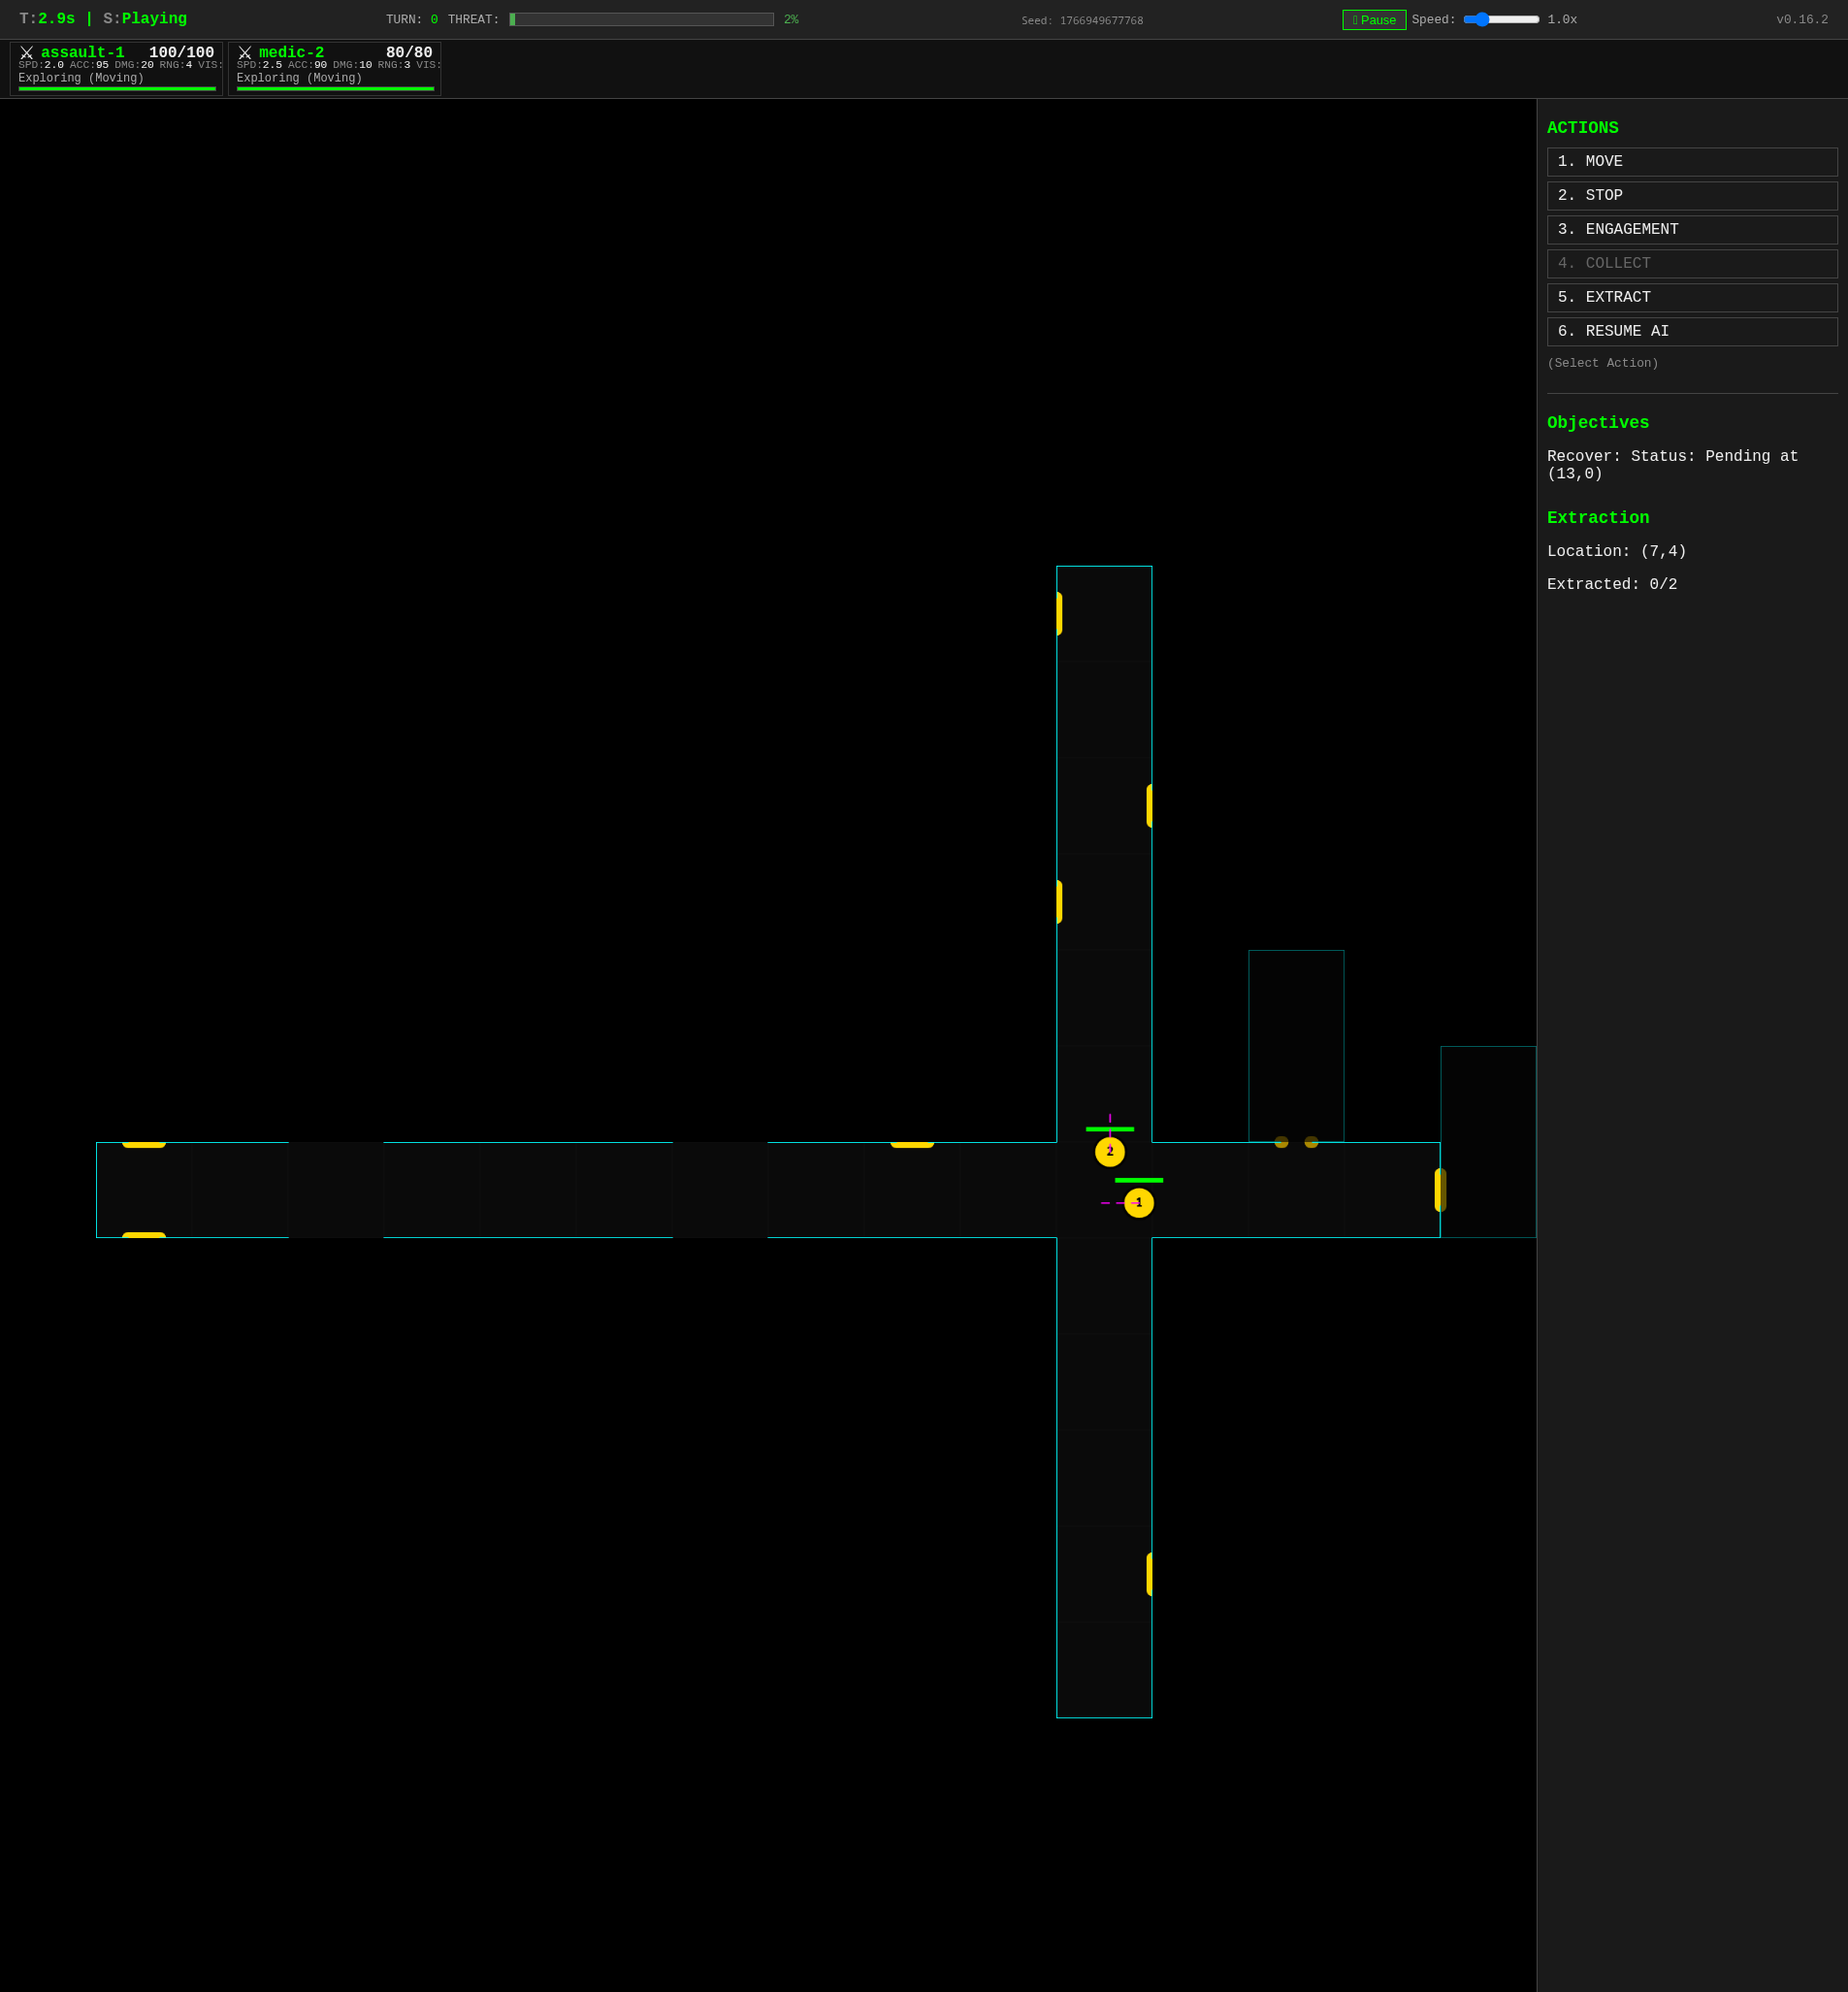
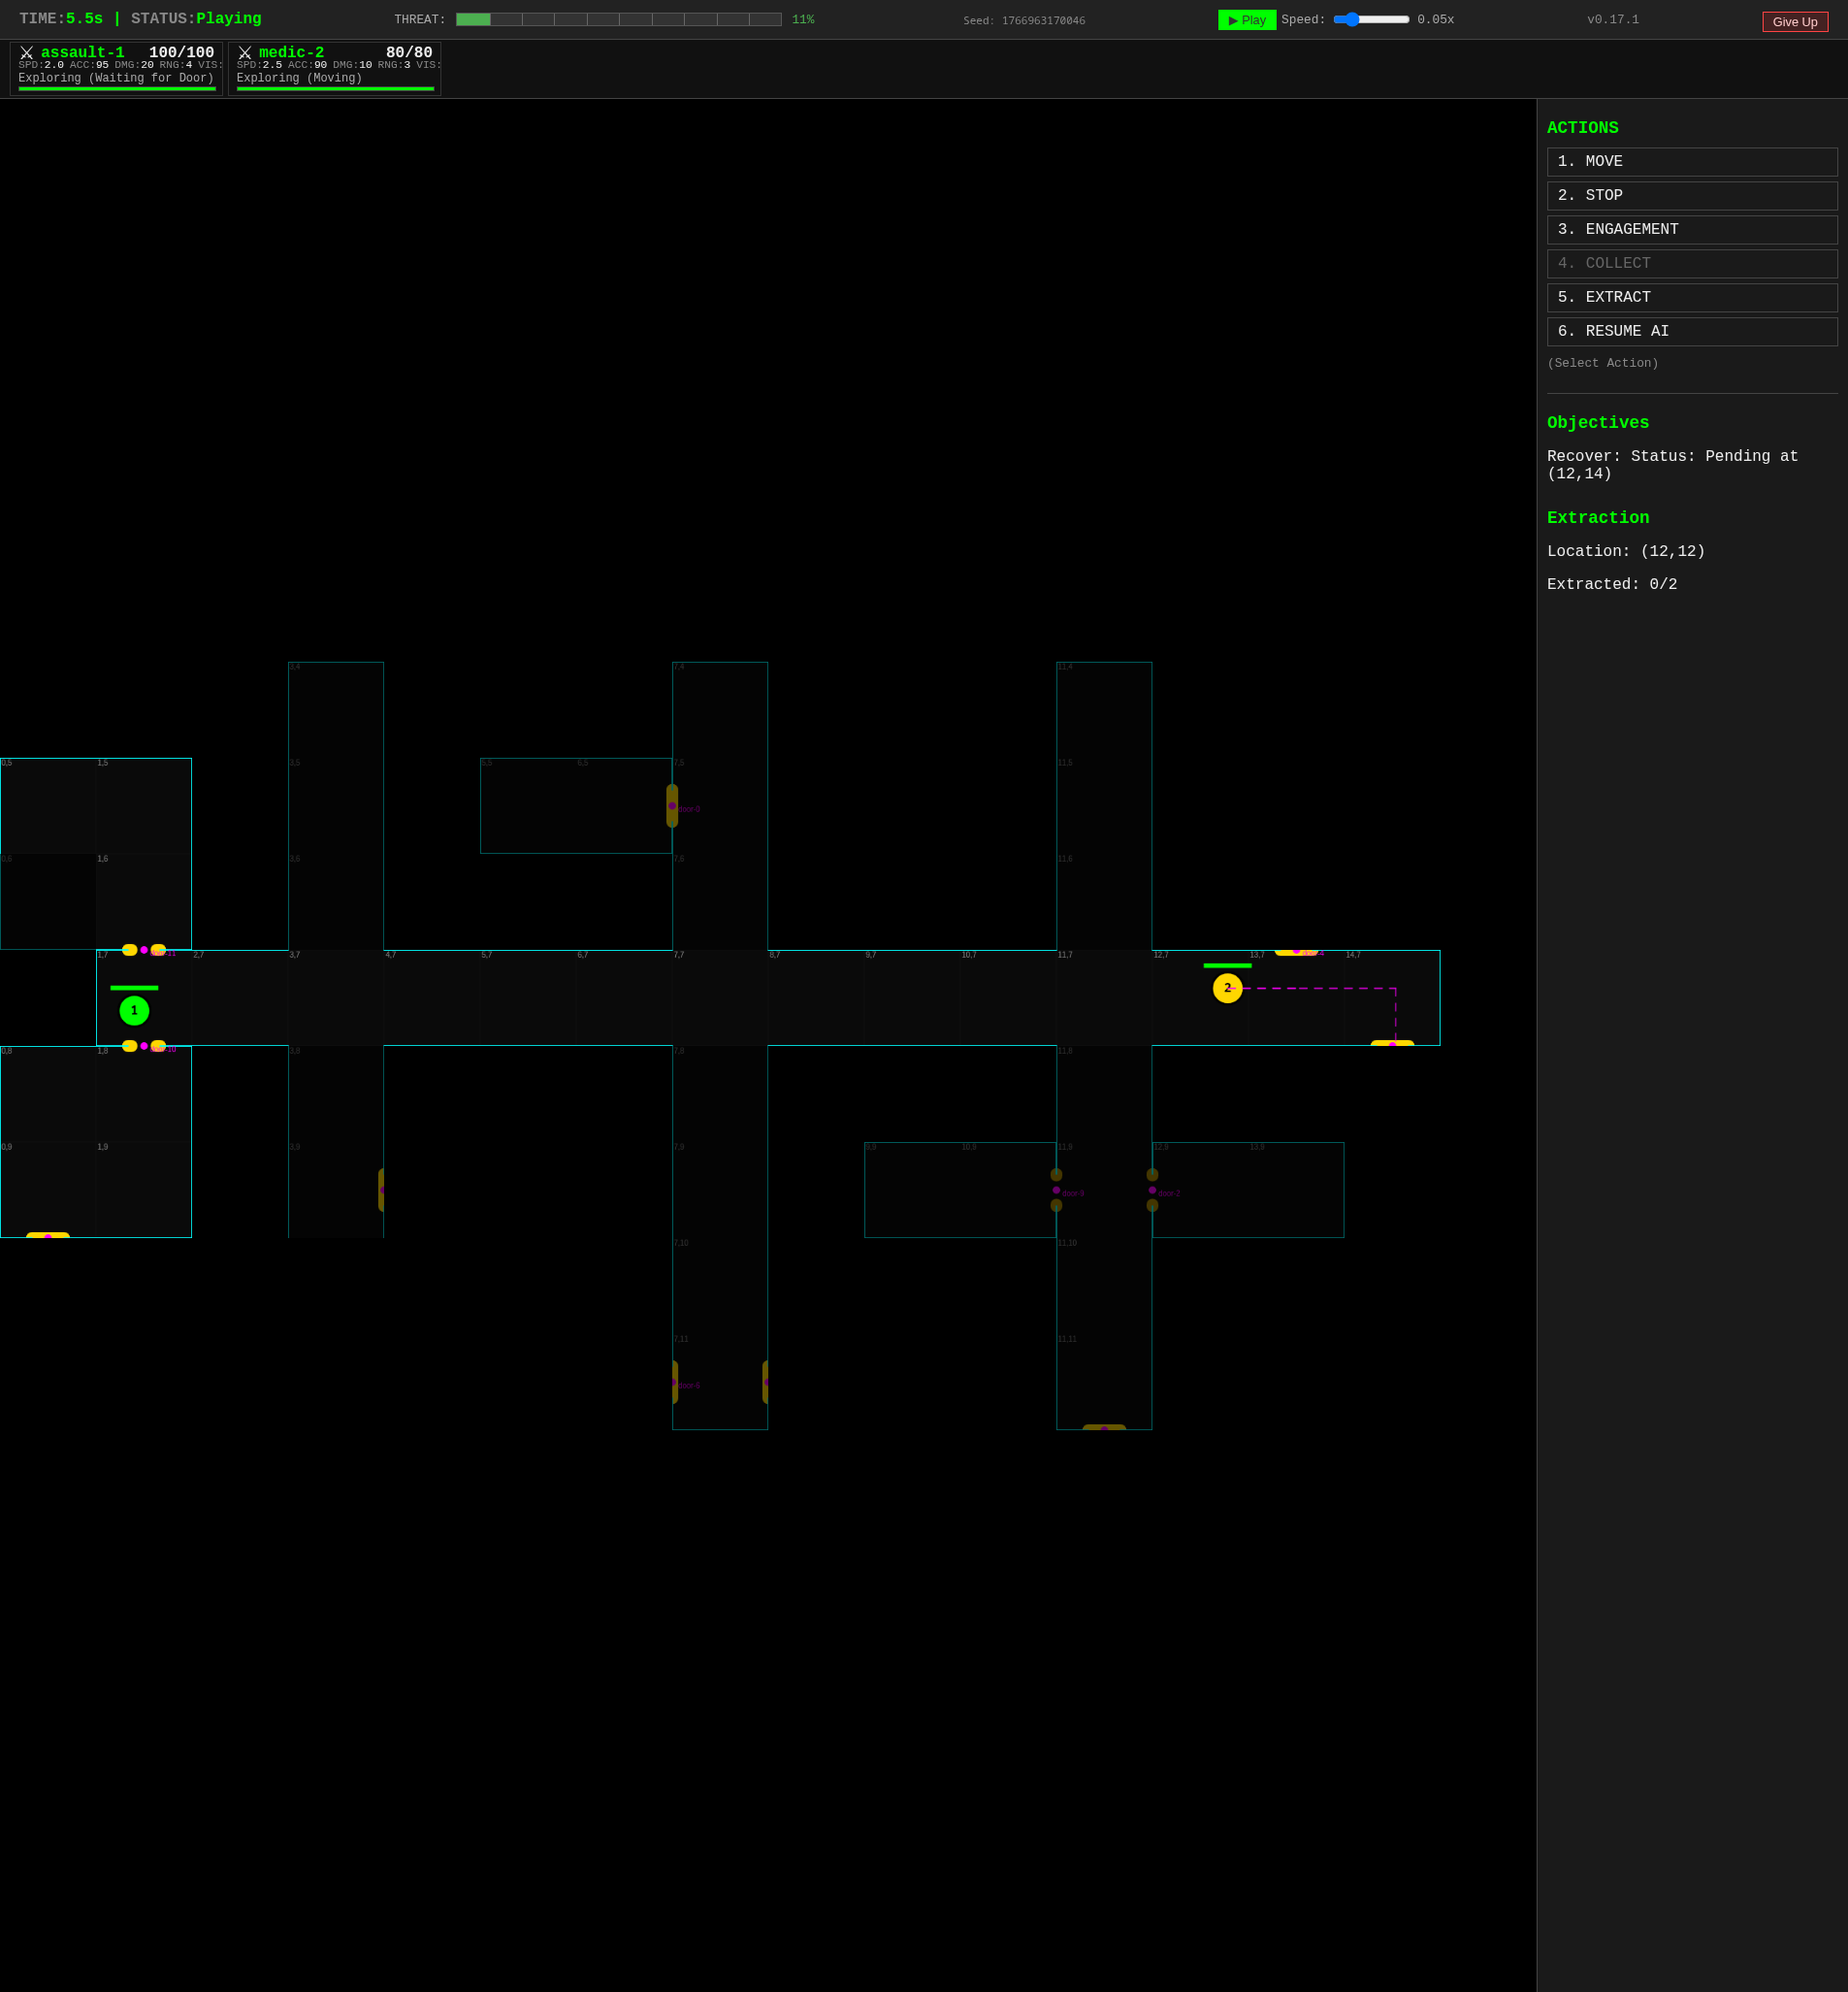
feat: enhance movement line with full path and fading effect

diff --git a/src/renderer/regression_lm0u_move_line.test.ts b/src/renderer/regression_lm0u_move_line.test.ts
@@ -1,0 +1,130 @@
+import { describe, it, expect, beforeEach, vi } from "vitest";
+import { Renderer } from "./Renderer";
+import {
+  GameState,
+  MapDefinition,
+  CellType,
+  UnitState,
+} from "../shared/types";
+
+// Mock Image
+class MockImage {
+  onload: any = null;
+  src: string = "";
+  complete: boolean = true;
+}
+vi.stubGlobal("Image", MockImage);
+
+// Mock CanvasRenderingContext2D
+const mockContext = {
+  clearRect: vi.fn(),
+  fillRect: vi.fn(),
+  strokeRect: vi.fn(),
+  beginPath: vi.fn(),
+  arc: vi.fn(),
+  moveTo: vi.fn(),
+  lineTo: vi.fn(),
+  closePath: vi.fn(),
+  fill: vi.fn(),
+  stroke: vi.fn(),
+  setLineDash: vi.fn(),
+  fillText: vi.fn(),
+  drawImage: vi.fn(),
+  createRadialGradient: vi.fn(() => ({
+    addColorStop: vi.fn(),
+  })),
+  textAlign: "",
+  textBaseline: "",
+  strokeStyle: "",
+  lineWidth: 0,
+  globalAlpha: 1.0,
+} as unknown as CanvasRenderingContext2D;
+
+// Mock HTMLCanvasElement
+const mockCanvas = {
+  getContext: vi.fn(() => mockContext),
+  width: 640,
+  height: 480,
+  getBoundingClientRect: vi.fn(() => ({
+    left: 0,
+    top: 0,
+    width: 640,
+    height: 480,
+  })),
+} as unknown as HTMLCanvasElement;
+
+describe("Renderer Move Line", () => {
+  let renderer: Renderer;
+  const mockMap: MapDefinition = {
+    width: 10,
+    height: 10,
+    cells: [],
+  };
+
+  beforeEach(() => {
+    vi.clearAllMocks();
+    renderer = new Renderer(mockCanvas);
+    renderer.setCellSize(32);
+  });
+
+  it("should render full path for moving units", () => {
+    const gameState: GameState = {
+      t: 0,
+      map: mockMap,
+      units: [
+        {
+          id: "s1",
+          pos: { x: 0.5, y: 0.5 },
+          state: UnitState.Moving,
+          targetPos: { x: 1.5, y: 0.5 },
+          path: [
+            { x: 1, y: 0 },
+            { x: 2, y: 0 },
+            { x: 2, y: 1 },
+          ],
+          hp: 100,
+          maxHp: 100,
+          damage: 10,
+          fireRate: 500,
+          attackRange: 1,
+          sightRange: 5,
+          speed: 2,
+          commandQueue: [],
+          archetypeId: "assault",
+        },
+      ],
+      enemies: [],
+      visibleCells: ["0,0", "1,0", "2,0", "2,1"],
+      discoveredCells: ["0,0", "1,0", "2,0", "2,1"],
+      objectives: [],
+      threatLevel: 0,
+      aliensKilled: 0,
+      casualties: 0,
+      status: "Playing",
+    };
+
+    renderer.render(gameState);
+
+    // Current implementation only draws to targetPos (1.5, 0.5) -> (48, 16)
+    // We expect it to also draw to subsequent waypoints in path:
+    // (2.5, 0.5) and (2.5, 1.5)
+    
+    // Check lineTo calls. 
+    // Initial call: moveTo(unitPos), lineTo(targetPos)
+    // Subsequent calls (expected): lineTo(path[1]), lineTo(path[2])...
+    
+    // In current implementation, we only expect one lineTo for the movement line.
+    // (Actually there might be other lineTo calls for health bars etc, but they use different coordinates)
+    
+    const lineToCalls = (mockContext.lineTo as any).mock.calls;
+    
+    // (1.5, 0.5) * 32 = (48, 16)
+    expect(lineToCalls).toContainEqual([48, 16]);
+    
+    // These are expected with the NEW implementation
+    // path[1] = {x: 2, y: 0} -> targetPos (2.5, 0.5) -> (80, 16)
+    // path[2] = {x: 2, y: 1} -> targetPos (2.5, 1.5) -> (80, 48)
+    expect(lineToCalls).toContainEqual([80, 16]);
+    expect(lineToCalls).toContainEqual([80, 48]);
+  });
+});

diff --git a/src/renderer/Renderer.ts b/src/renderer/Renderer.ts
@@ -565,16 +565,43 @@ export class Renderer {
       }
 
       if (unit.state === UnitState.Moving && unit.targetPos) {
-        this.ctx.beginPath();
-        this.ctx.moveTo(x, y);
-        this.ctx.lineTo(
-          unit.targetPos.x * this.cellSize,
-          unit.targetPos.y * this.cellSize,
-        );
+        const jitter = unit.visualJitter || { x: 0, y: 0 };
+        const pathPoints: Vector2[] = [unit.targetPos];
+
+        if (unit.path && unit.path.length > 1) {
+          for (let i = 1; i < unit.path.length; i++) {
+            pathPoints.push({
+              x: unit.path[i].x + 0.5 + jitter.x,
+              y: unit.path[i].y + 0.5 + jitter.y,
+            });
+          }
+        }
+
         this.ctx.strokeStyle = "#FF00FF";
         this.ctx.lineWidth = 2;
         this.ctx.setLineDash([10, 10]);
-        this.ctx.stroke();
+
+        let currX = x;
+        let currY = y;
+
+        pathPoints.forEach((p, idx) => {
+          const nextX = p.x * this.cellSize;
+          const nextY = p.y * this.cellSize;
+
+          // Dimmer further from the soldier
+          const alpha = Math.max(0.1, 1.0 - idx / Math.max(pathPoints.length, 5));
+          this.ctx.globalAlpha = alpha;
+
+          this.ctx.beginPath();
+          this.ctx.moveTo(currX, currY);
+          this.ctx.lineTo(nextX, nextY);
+          this.ctx.stroke();
+
+          currX = nextX;
+          currY = nextY;
+        });
+
+        this.ctx.globalAlpha = 1.0;
         this.ctx.setLineDash([]);
       }
 
